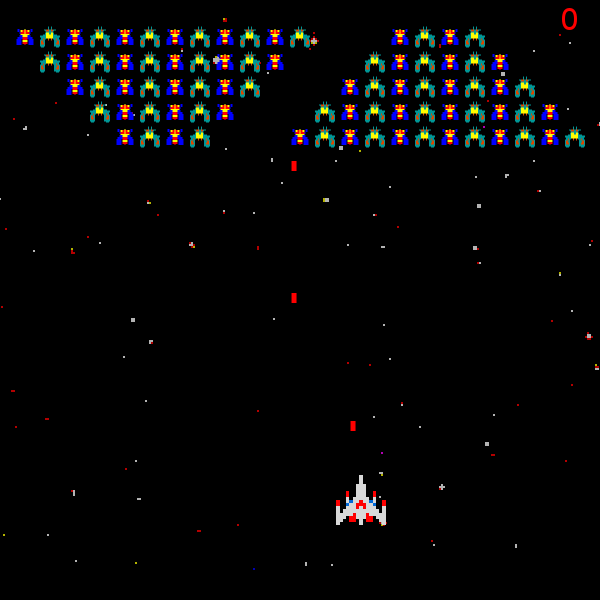
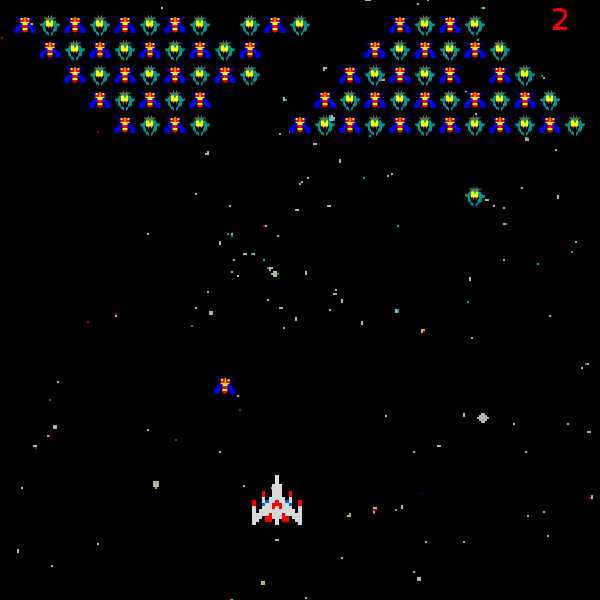
improve galaga, add lifes,  more sounds

diff --git a/Games/galaga.js b/Games/galaga.js
@@ -9,12 +9,12 @@ var Galaga = function ()
 	var Plane;
 	var img; 
 	var psize = 50, GameOver,  moved;
-	var asteroids, Count, level = 0; 
+	var asteroids, Count, level = 0, lifes; 
 	var bulls ;
 	var frame = 1;
 	var ROWS = 5 , COL = 12, total;
 	var bgImg, planeimg, bbee, gbee;
-	var destroyed, laser, start, explosion, wins; 
+	var destroyed, destroyed2, laser, start, explosion, wins; 
 	
 	this.setup = function()
 	{
@@ -26,13 +26,16 @@ var Galaga = function ()
 		bbee = loadAnimation("images/Galaga/bbee1.png", "images/Galaga/bbee2.png");
 		gbee = loadAnimation("images/Galaga/gbee1.png", "images/Galaga/gbee2.png");
 		destroyed = loadSound('Sounds/Galaga/galaga_destroyed.wav');
+		destroyed2 = loadSound('Sounds/Galaga/galaga_destroyed2.wav');
 		laser = loadSound('Sounds/Galaga/laser.wav');
 		laser.setVolume(0.2);
 		destroyed.setVolume(0.4);
+		destroyed2.setVolume(0.5);
 		start = loadSound('Sounds/Galaga/start.mp3');
 		explosion = loadSound('Sounds/Galaga/explosion.wav');
 		wins = loadSound('Sounds/Galaga/coin_credit.wav');
-		bgImg.frameDelay = 10;
+
+		bgImg.frameDelay = 11;
 		GameOver = true;
 		asteroids = new Group(); 
 		bulls =  new Group(); 
@@ -50,7 +53,7 @@ var Galaga = function ()
 	{
 		//clear();
 		fill(0,100,100);
-		textSize(30);
+		textSize(20);
 		textAlign(CENTER);
 		if(!GameOver){
 			background(0);
@@ -63,10 +66,13 @@ var Galaga = function ()
 				if(bulls[i].position.y < 0){
 					bulls[i].remove();
 				}
+
+
+
 			for(var i=0;i<asteroids.length;i++)  //Die 
 				if(asteroids[i].position.y > height/1.2){
+					asteroids[i].remove();
 					die();
-					text("Click Again",width/2,height/2);
 				}
 
 			if(Count >= total){
@@ -87,10 +93,14 @@ var Galaga = function ()
 					movebee();
 				}
 			
-
-			text ( Count, width-40 , 30)
-			camera.on();
-			asteroids.overlap(bulls,erase);
+			///Highs score and Lifes 
+			text("HIGH SCORE "+ lifes, width/1.2, height/1.1 +20);
+			fill(255);
+			text (Count, width/1.2, height/1.1 + 40)
+			for(var i = 0 ; i< lifes; i++)
+				image(planeimg,i*50,height/1.1,40,40);
+			///
+			asteroids.overlap(bulls,erase); // Bulls and Asteroids overlap
 			drawSprites();
 		}
 	};
@@ -108,6 +118,7 @@ var Galaga = function ()
 		updateSprites(true);
 		Count = 0;
 		total = 0; 
+		lifes = 3;
 		GameOver = false;
 		levels(level);
 		start.play();
@@ -117,12 +128,15 @@ var Galaga = function ()
 	die = function()
 	{
 		explosion.play();
-		GameOver = true;
-		updateSprites(false);
-		text("Click Again",width/2,height/2);
-  		asteroids.removeSprites();
-  		
-	}
+		lifes--;
+		if(lifes < 0 ){
+			GameOver = true;
+			updateSprites(false);
+			text("Click Again",width/2,height/2);
+	  		asteroids.removeSprites();
+  		}
+  	}
+
 	win = function()
 	{
 		wins.play();
@@ -150,7 +164,10 @@ var Galaga = function ()
 	};
 	erase  = function (asteroid, bull)
 	{
-		destroyed.play();
+		if(asteroid.getAnimationLabel() == 'blue')
+			destroyed.play();
+		else
+			destroyed2.play();
 		bull.remove();
 		asteroid.remove();
 		Count++;
